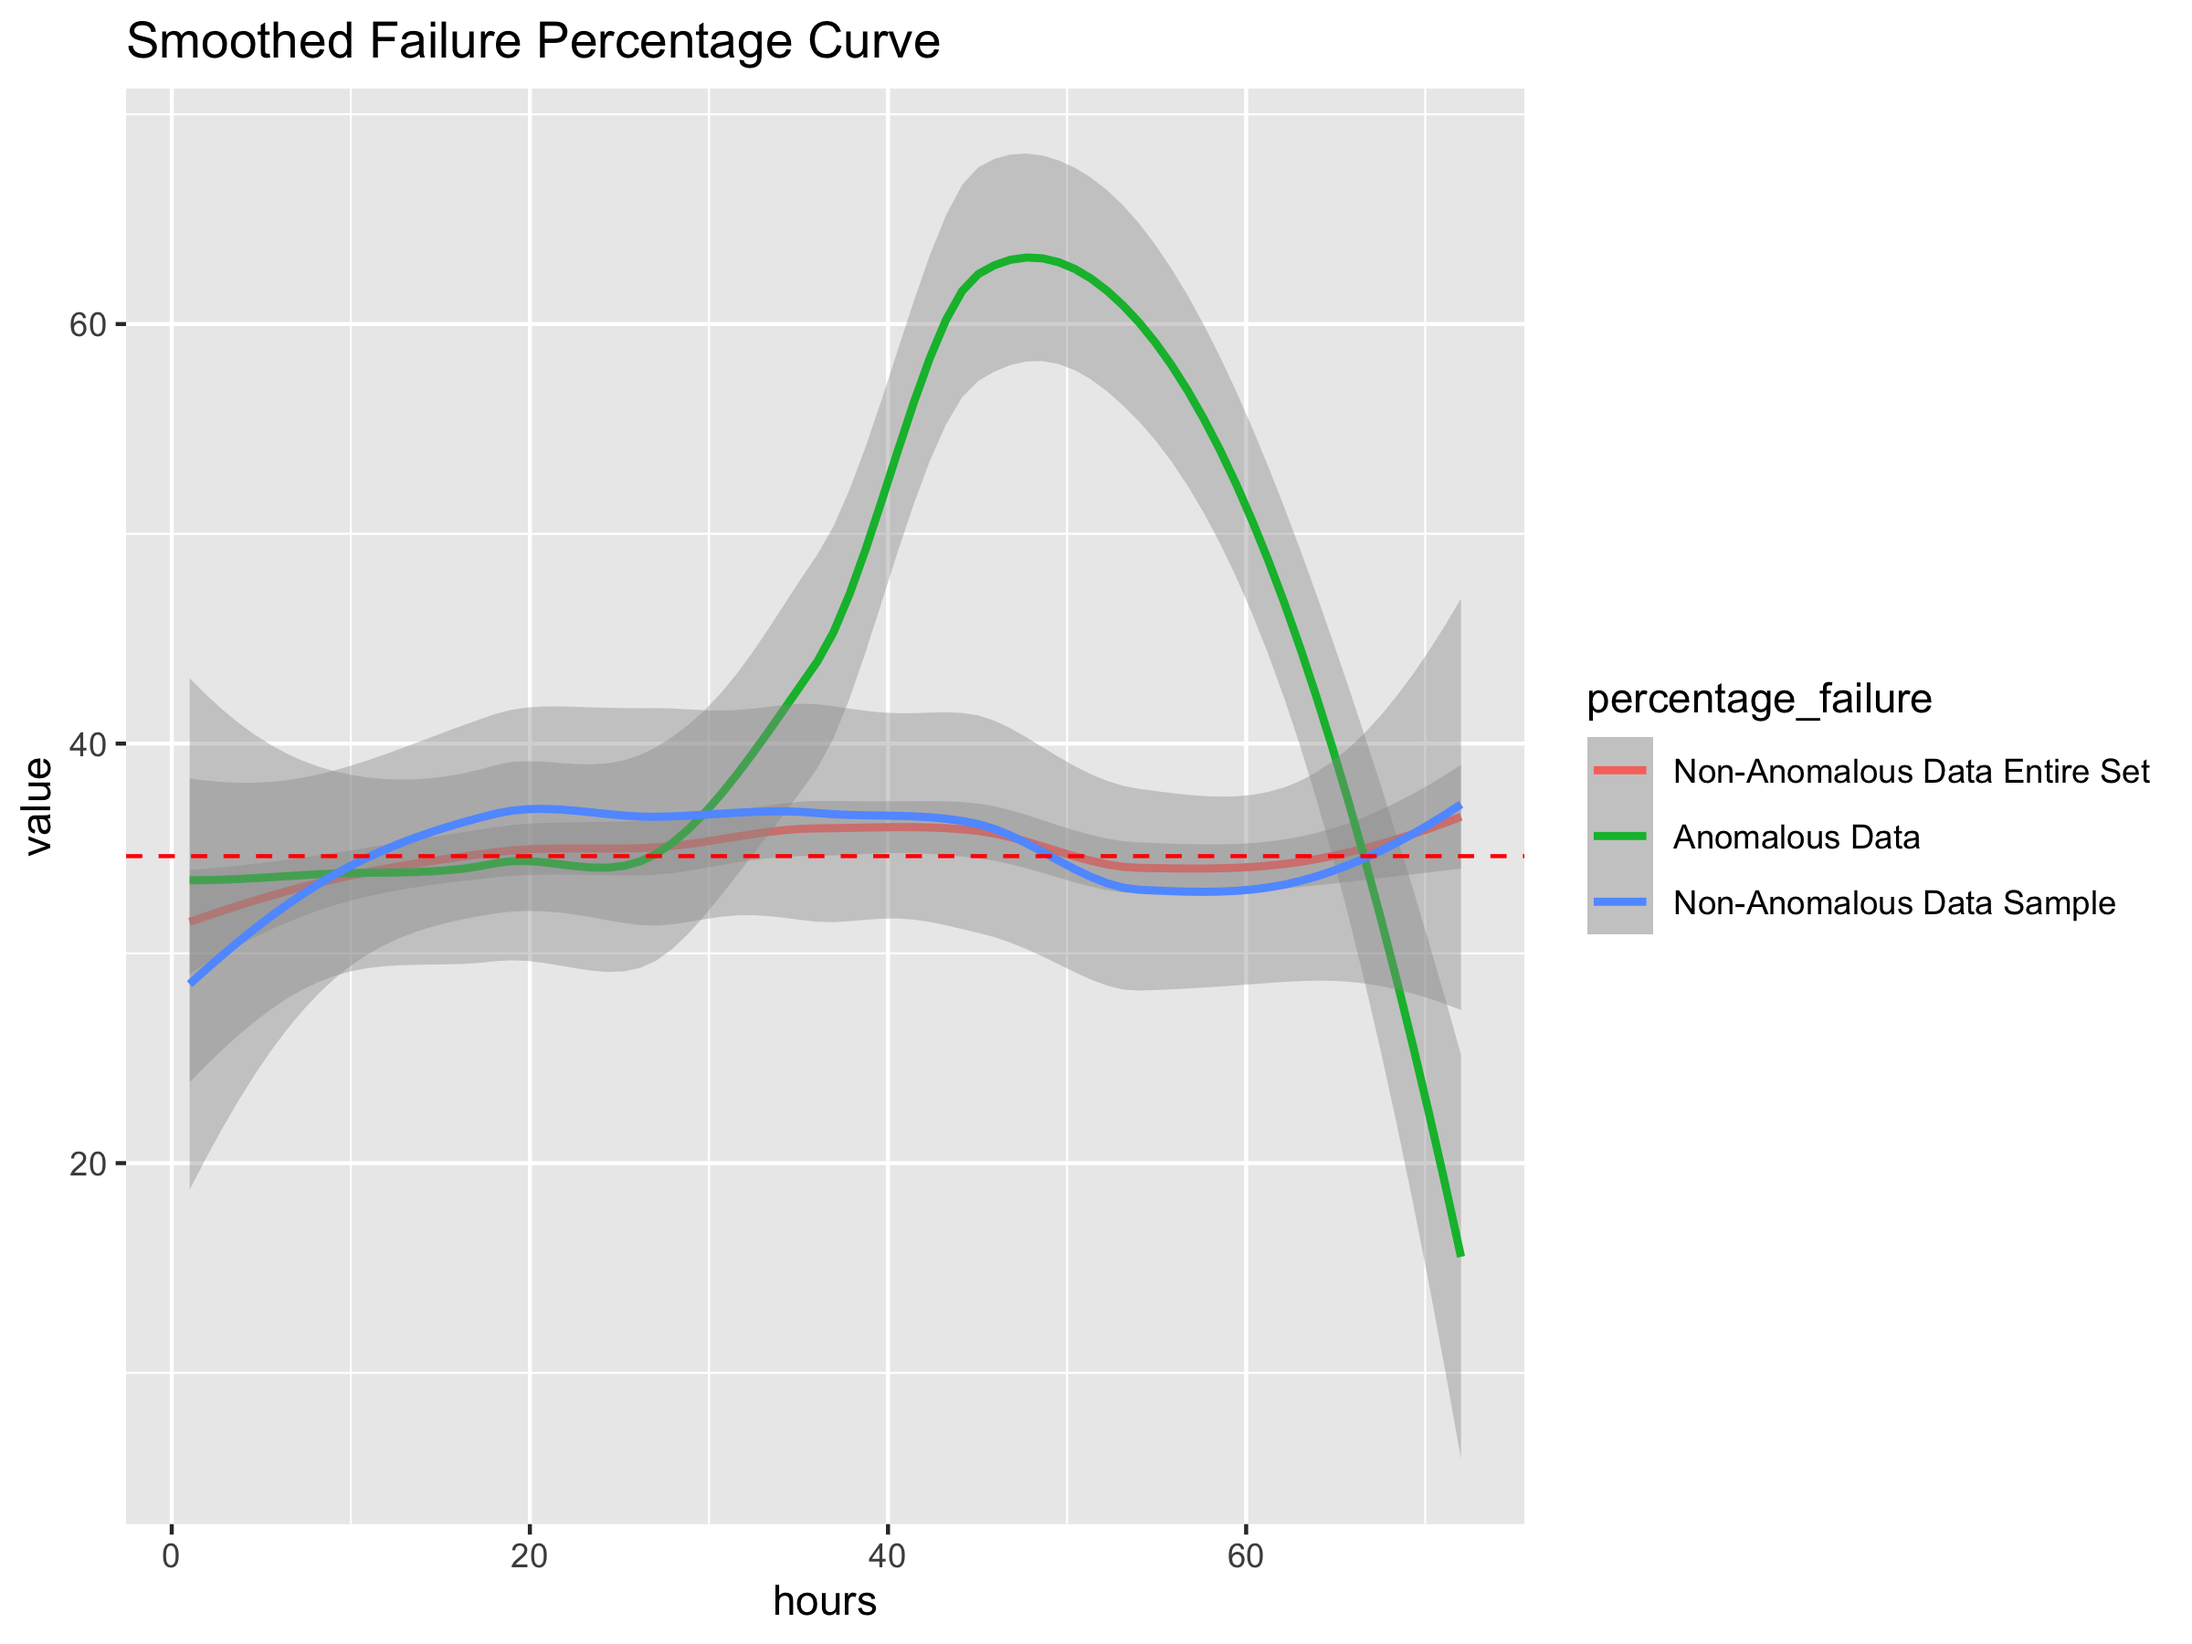
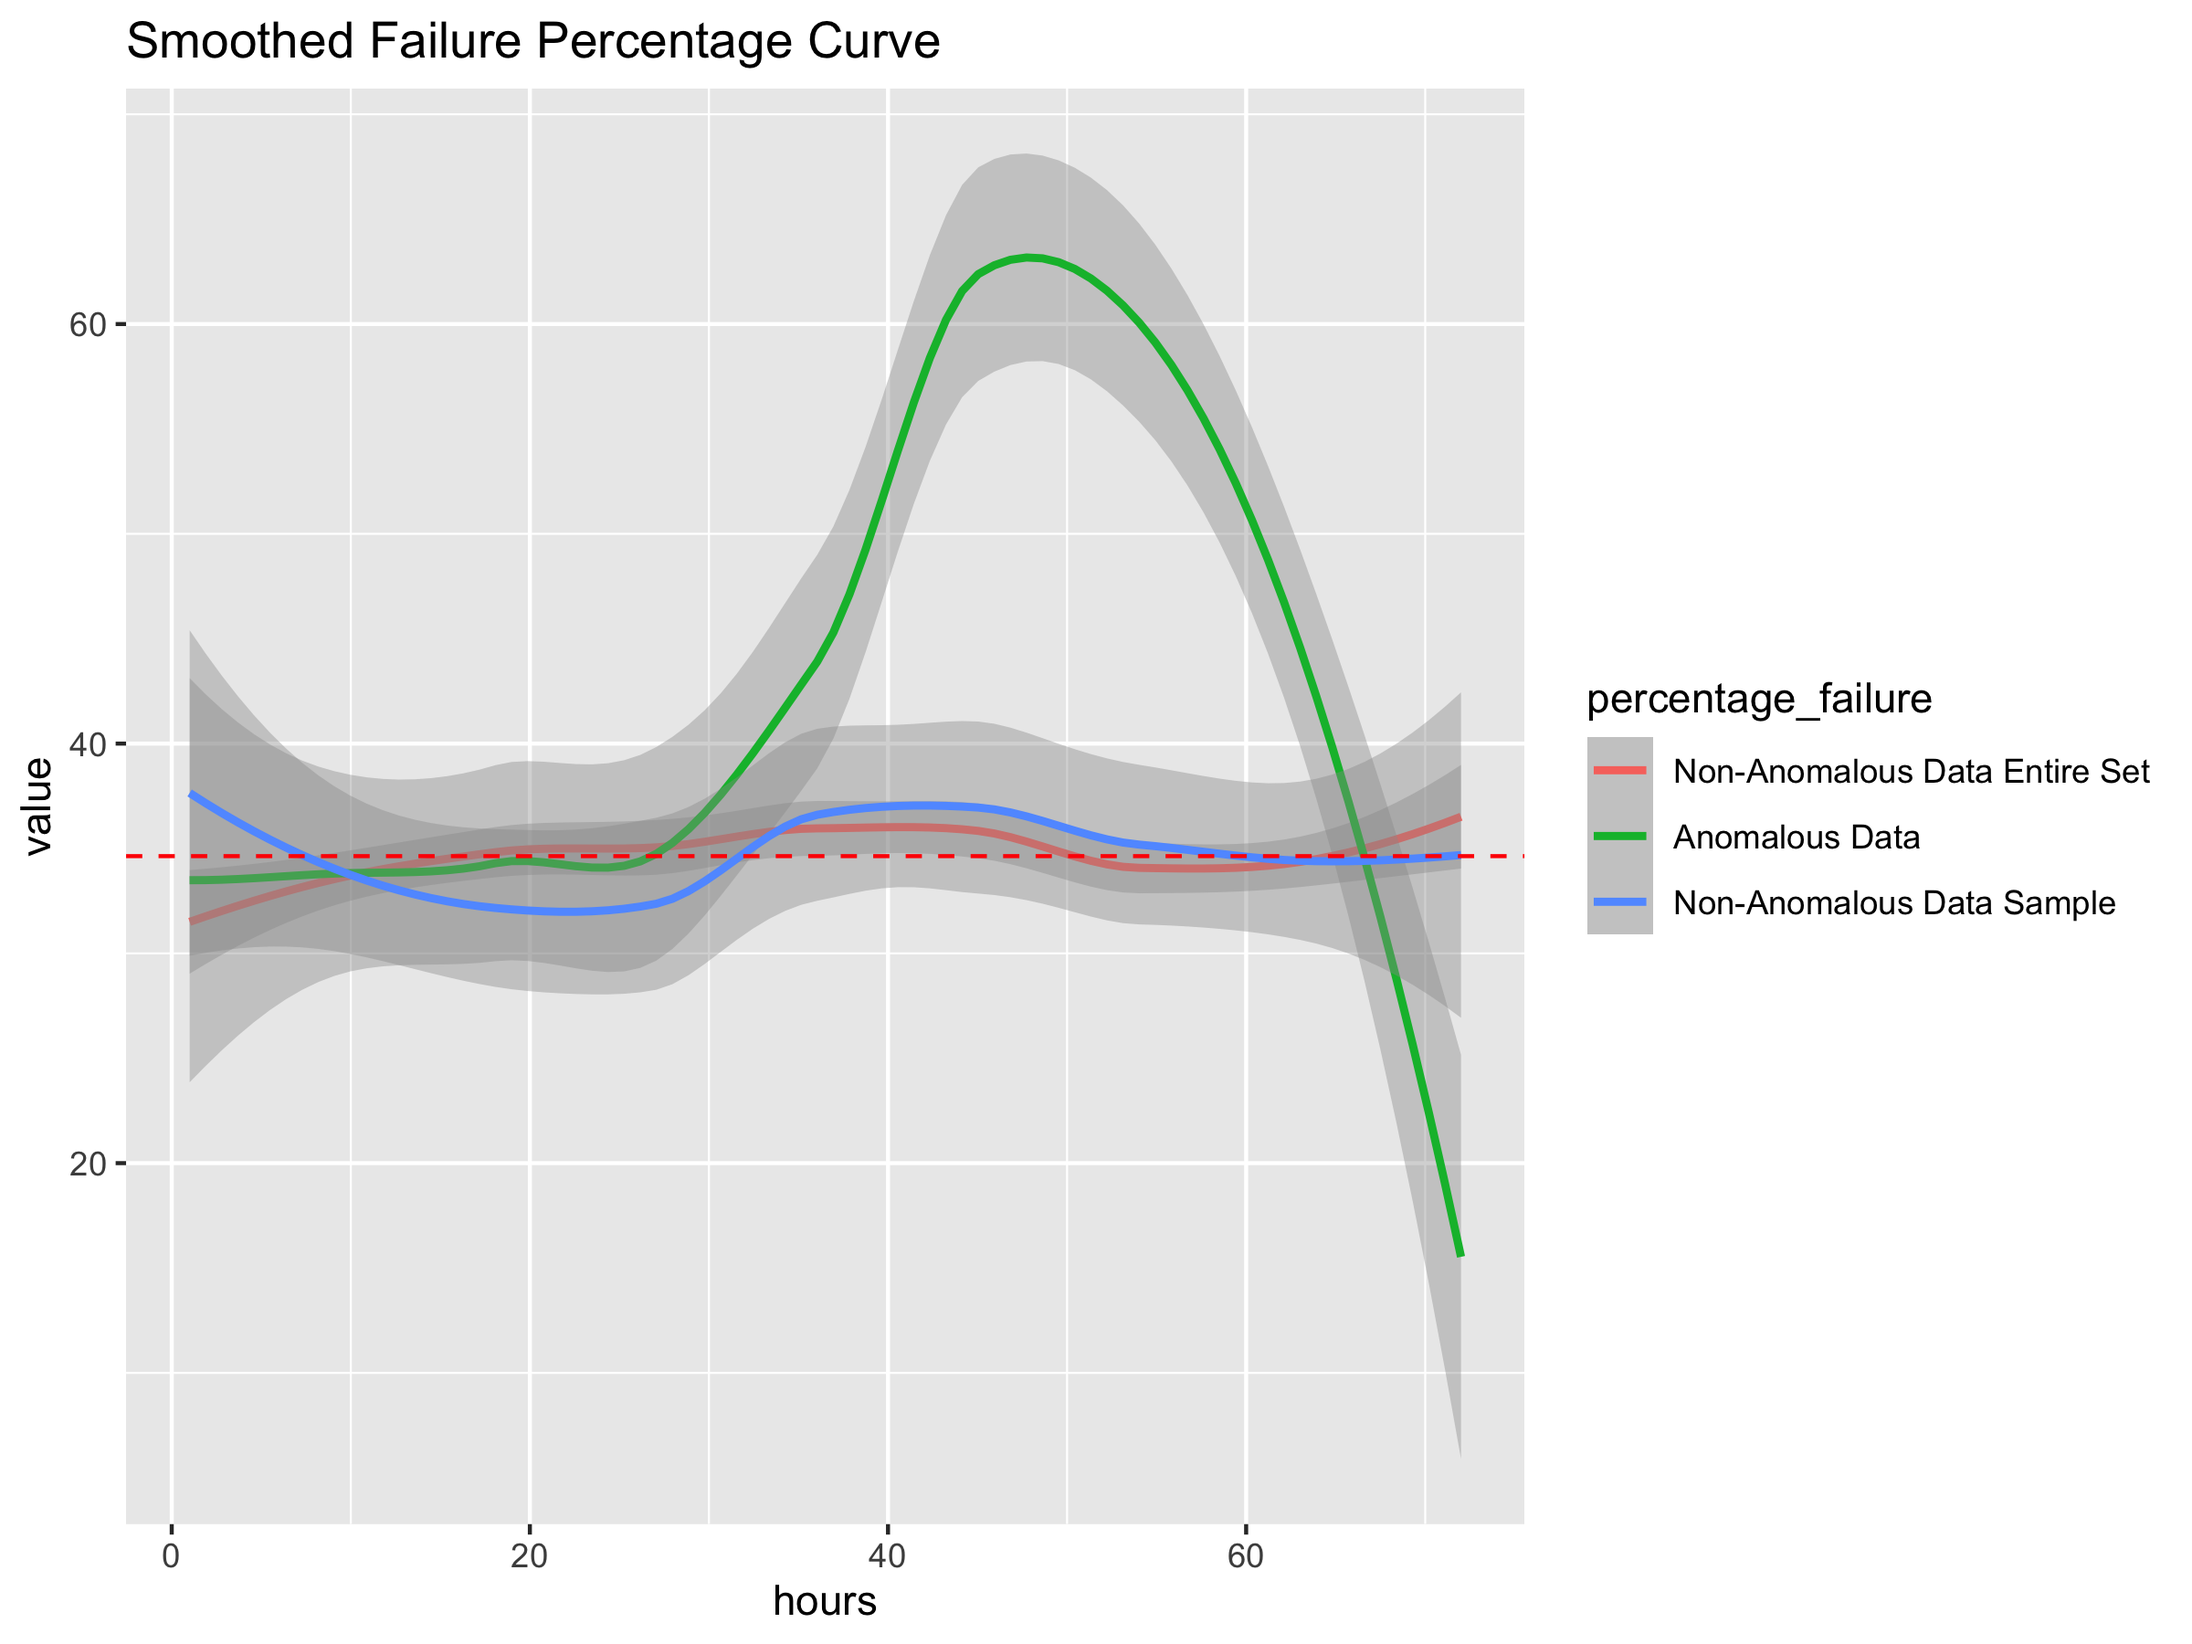
s

diff --git a/Anamoly_Detection/ReadMe.md b/Anamoly_Detection/ReadMe.md
@@ -725,13 +725,13 @@ compliment_sample_sizes <- t
 (sum(compliment_sample_sizes[,2]))
 ```
 
-    ## [1] 19296
+    ## [1] 13473
 
 ``` r
 cat("totall transactions in sample of observations from normal data of equal size to number of anamoly observations.",sum(compliment_sample_sizes[,2]))
 ```
 
-    ## totall transactions in sample of observations from normal data of equal size to number of anamoly observations. 19296
+    ## totall transactions in sample of observations from normal data of equal size to number of anamoly observations. 13473
 
 ``` r
 hours <- seq(1, 72, 1)
@@ -766,7 +766,7 @@ ggplot(data = long, aes(x = hours, y = value, group = percentage_failure, color 
 cat("totall transactions in sample of observations from normal data of equal size to number of anamoly observations.",sum(compliment_sample_sizes[,2]))
 ```
 
-    ## totall transactions in sample of observations from normal data of equal size to number of anamoly observations. 19296
+    ## totall transactions in sample of observations from normal data of equal size to number of anamoly observations. 13473
 
 To make a fair comparison of the anomalous data and normal data before
 the anomaly event, the blue line is the failure rate of the normal data
@@ -843,6 +843,9 @@ volume and failure rate
 \<a
 href=“[https://jacob-j-richards.shinyapps.io/shiny/”](https://jacob-j-richards.shinyapps.io/shiny/%22)
 target=”\_blank”\>Click here to use the Shiny App\</a\>
+
+<a href="https://jacob-j-richards.shinyapps.io/shiny/" target="_blank">Click
+here to use the Shiny App</a>
 
 ``` r
 paytm_subset <- data[
